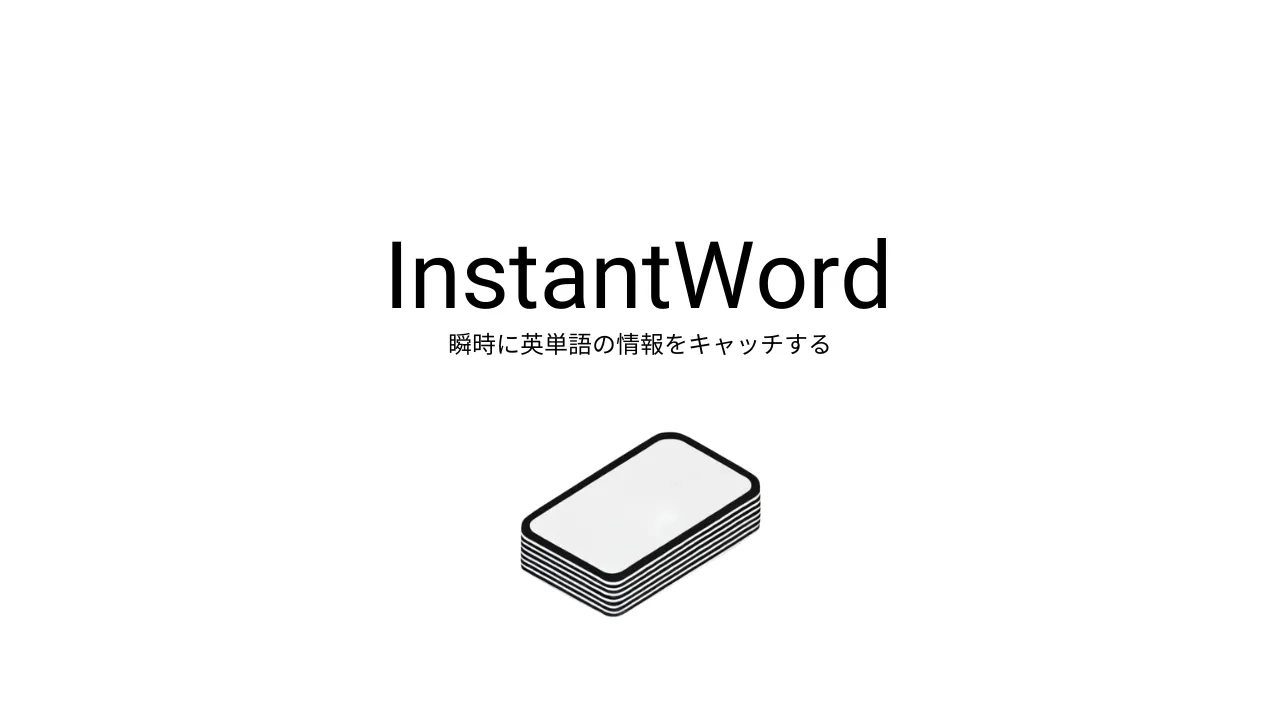
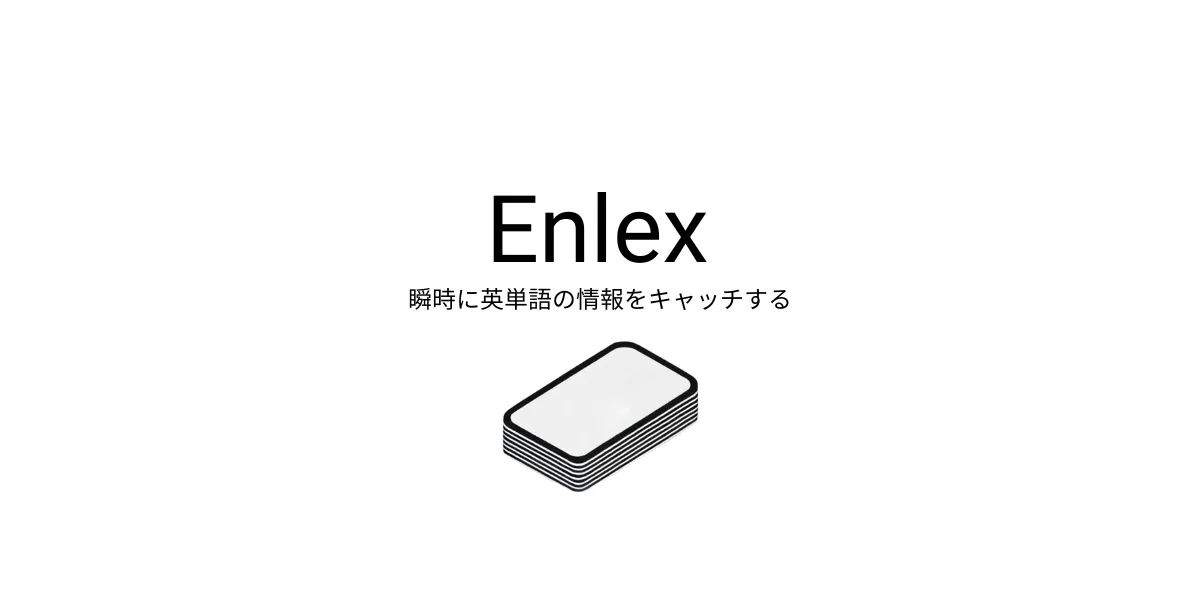
Style: Home画面を作成

Changed region(s): [[0.3083, 0.3, 0.7092, 0.51], [0.4008, 0.57, 0.6167, 0.87]]

diff --git a/app/features/_index.tsx b/app/features/_index.tsx
@@ -1,33 +1,30 @@
 import type { MetaFunction } from "@remix-run/cloudflare";
-import LoginModal from "~/components/global/LoginModal";
-import LoginSheet from "~/components/global/LoginSheet";
 import ResponsiveLoginButton from "~/components/global/ResponsiveLoginButton";
-import { Button } from "~/components/ui/button";
 
 export const meta: MetaFunction = () => {
 	return [
-		{ title: "InstantCard | 英単語学習、もっと手軽に" },
-		{ property: "og:title", content: "InstantCard | 英単語学習、もっと手軽に" },
+		{ title: "Enlex | 英単語学習を革新する" },
+		{ property: "og:title", content: "Enlex | 英単語学習を革新する" },
 		{
 			property: "og:description",
 			content:
-				"InstantCardは、効率的に英単語カードを作成、学習するためのサービスです。",
+				"Enlexは、AIを活用して英単語カードを瞬時に作成・管理できる革新的な学習サービスです。",
 		},
 		{ property: "og:image", content: "/og.webp" },
 		{
 			name: "description",
 			content:
-				"InstantCardは、効率的に英単語カードを作成、学習するためのサービスです。日々の英語学習の中で知らない英単語をカードにして、覚えて英語力を鍛えましょう。",
+				"Enlexは、AIを活用して英単語カードを瞬時に作成・管理できる革新的な学習サービスです。効率的な暗記と復習で、あなたの英語学習を加速させましょう。",
 		},
 		{ property: "twitter:card", content: "summary_large_image" },
 		{
 			property: "twitter:title",
-			content: "InstantCard | 英単語学習、もっと手軽に",
+			content: "Enlex | 英単語学習を革新する",
 		},
 		{
 			property: "twitter:description",
 			content:
-				"InstantCardは、効率的に英単語カードを作成、学習するためのサービスです。",
+				"Enlexは、AIを活用して英単語カードを瞬時に作成・管理できる革新的な学習サービスです。",
 		},
 		{ property: "twitter:image", content: "/og.webp" },
 	];
@@ -35,58 +32,156 @@ export const meta: MetaFunction = () => {
 
 export default function Index() {
 	return (
-		<>
-			<div className="flex justify-center items-center pt-20 pb-10">
+		<div>
+			<header className="container mx-auto px-4 py-20 text-center">
+				<h1 className="text-5xl">Enlex</h1>
+				<p className="mb-3">瞬時に英単語の情報をキャッチする</p>
+				<div className="flex justify-center">
+					<ResponsiveLoginButton />
+				</div>
+			</header>
+
+			{/* アプリのスクリーンショット */}
+			<section className="container mx-auto px-4 py-12 flex flex-col md:flex-row items-center justify-center gap-8">
 				<img
-					src="/icon.webp"
-					alt="logo"
-					width={200}
-					height={200}
-					className="animate-fade"
+					src="/home.webp"
+					alt="Enlex アプリのスクリーンショット"
+					className="rounded-lg shadow-xl"
 				/>
-			</div>
-			<p className="text-center text-sm">煩雑な英単語学習、もっと手軽に</p>
-			<h1 className="text-center text-5xl">InstantCard</h1>
-			<div className="mt-2 flex flex-col items-center">
-				<ResponsiveLoginButton />
-				<p className="mt-4 text-gray-400 pb-10 hover:cursor-pointer hover:underline hover:text-gray-500">
-					サービスをもっと詳しく→
+			</section>
+
+			{/* 機能セクション */}
+			<section className="container mx-auto px-4 py-16">
+				<h2 className="text-4xl font-bold text-center mb-3">主な機能</h2>
+				<p className="text-center text-gray-600 mb-16">
+					あなたの英語学習を加速させる3つの強み
 				</p>
-			</div>
-			<div className="my-8 sm:my-32 flex flex-col items-center animate-bounce">
-				<div className="w-0.5 h-20 bg-black" />
-				<div className="w-0 h-0 border-l-4 border-r-4 border-t-8 border-transparent border-t-black" />
-			</div>
-			<h2 className="text-3xl text-center">サービスの目的</h2>
-			<div className="flex justify-center items-center">
-				<img src="/reading.webp" alt="reading" width={200} height={200} />
-			</div>
-			<div className="flex justify-center">
-				<p className="max-w-lg">
-					InstantCardは、効率的に英単語カードを作成、学習するために生まれたサービスです。
-					日々の英語学習の中で知らない英単語をカードにして、覚えて英語力を鍛えましょう。
-				</p>
-			</div>
-			<div className="py-5 flex justify-center">
-				<div className="hidden sm:block">
-					<LoginModal
-						trigger={
-							<Button size="giant" aria-label="ログインモーダルを開く">
-								カードを作る
-							</Button>
-						}
-					/>
+
+				{/* 機能1 */}
+				<div className="mb-32">
+					<div className="flex items-center mb-8">
+						<div className="w-12 h-12 rounded-full bg-black text-white flex items-center justify-center font-bold text-lg">
+							01
+						</div>
+						<h3 className="text-2xl font-bold ml-4">
+							AIによる瞬時の英単語カード生成
+						</h3>
+					</div>
+
+					<div className="flex flex-col md:flex-row gap-8 mb-8">
+						<img
+							src="/create.webp"
+							alt="英単語カード作成機能のスクリーンショット"
+							className="rounded-lg shadow-lg"
+						/>
+					</div>
+
+					<p className="text-lg leading-relaxed">
+						<span className="font-semibold">
+							たった一語の入力で、完璧な学習カードが完成。
+						</span>
+						<br />
+						AIが単語を分析し、意味・例文・発音のポイント・関連語句など、効率的な学習に必要な情報をすべて自動生成。
+						辞書を引く手間や、ノートにまとめる時間を大幅に削減できます。
+					</p>
 				</div>
-				<div className="block sm:hidden">
-					<LoginSheet
-						trigger={
-							<Button size="giant" aria-label="ログインモーダルを開く">
-								カードを作る
-							</Button>
-						}
-					/>
+
+				{/* 機能2 */}
+				<div className="mb-32">
+					<div className="flex items-center mb-8">
+						<div className="w-12 h-12 rounded-full bg-black text-white flex items-center justify-center font-bold text-lg">
+							02
+						</div>
+						<h3 className="text-2xl font-bold ml-4">
+							直感的な単語カード管理システム
+						</h3>
+					</div>
+
+					<div className="flex flex-col md:flex-row gap-8 mb-8">
+						<img
+							src="/cards.webp"
+							alt="カード管理機能のスクリーンショット"
+							className="rounded-lg shadow-lg"
+						/>
+					</div>
+
+					<p className="text-lg leading-relaxed">
+						<span className="font-semibold">
+							自分だけの単語コレクションを自由にカスタマイズ。
+						</span>
+						<br />
+						タグ付け、分類、並び替えなど、柔軟な管理機能で学習効率を最大化。
+						辞書機能との連携で、単語の理解を深めながら、効率的な語彙力アップをサポートします。
+					</p>
 				</div>
-			</div>
-		</>
+
+				{/* 機能3 */}
+				<div className="mb-24">
+					<div className="flex items-center mb-8">
+						<div className="w-12 h-12 rounded-full bg-black text-white flex items-center justify-center font-bold text-lg">
+							03
+						</div>
+						<h3 className="text-2xl font-bold ml-4">
+							多彩な学習モードで記憶を定着
+						</h3>
+					</div>
+
+					{/* 学習モード比較 */}
+					<div className="grid grid-cols-1 md:grid-cols-2 gap-8 mb-8">
+						{/* スライドモード */}
+						<div className="flex flex-col items-center">
+							<div
+								className="w-full bg-gray-50 rounded-lg overflow-hidden shadow-lg"
+								style={{ aspectRatio: "4/3" }}
+							>
+								<div className="h-full w-full flex items-center justify-center">
+									<img
+										src="/slide.webp"
+										alt="スライド機能のスクリーンショット"
+										className="object-contain w-full h-full"
+									/>
+								</div>
+							</div>
+							<div className="mt-6 text-center w-full">
+								<h4 className="text-xl font-bold">スライドモード</h4>
+								<p className="text-gray-600 mt-1">自動再生で効率的に復習</p>
+							</div>
+						</div>
+
+						{/* クイズモード */}
+						<div className="flex flex-col items-center">
+							<div
+								className="w-full bg-gray-50 rounded-lg overflow-hidden shadow-lg"
+								style={{ aspectRatio: "4/3" }}
+							>
+								<div className="h-full w-full flex items-center justify-center">
+									<img
+										src="/quiz.webp"
+										alt="クイズ機能のスクリーンショット"
+										className="object-contain w-full h-full"
+									/>
+								</div>
+							</div>
+							<div className="mt-6 text-center w-full">
+								<h4 className="text-xl font-bold">クイズモード</h4>
+								<p className="text-gray-600 mt-1">記憶の定着度をチェック</p>
+							</div>
+						</div>
+					</div>
+
+					<p className="text-lg leading-relaxed">
+						<span className="font-semibold">
+							スライドとクイズで「知っている」から「使える」へ。
+						</span>
+						<br />
+						自分のペースで反復学習できるスライドモードと、理解度を確認できるクイズモードで、
+						確実な記憶定着をサポート。スキマ時間を活用した継続的な学習で、着実に語彙力を強化できます。
+					</p>
+					<div className="flex justify-center">
+						<ResponsiveLoginButton />
+					</div>
+				</div>
+			</section>
+		</div>
 	);
 }

diff --git a/app/components/global/ResponsiveLoginButton.tsx b/app/components/global/ResponsiveLoginButton.tsx
@@ -8,7 +8,7 @@ const ResponsiveLoginButton = () => (
 			<LoginModal
 				trigger={
 					<Button size="giant" aria-label="ログインモーダルを開く">
-						カードを作る
+						今すぐ試してみる
 					</Button>
 				}
 			/>
@@ -17,7 +17,7 @@ const ResponsiveLoginButton = () => (
 			<LoginSheet
 				trigger={
 					<Button size="giant" aria-label="ログインモーダルを開く">
-						カードを作る
+						今すぐ試してみる
 					</Button>
 				}
 			/>
